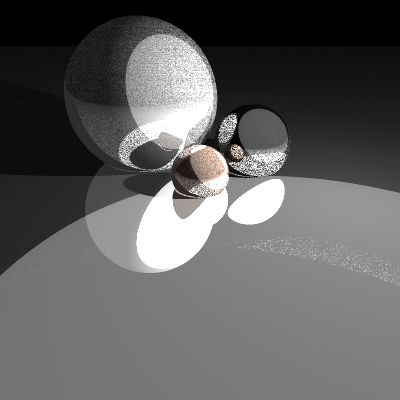
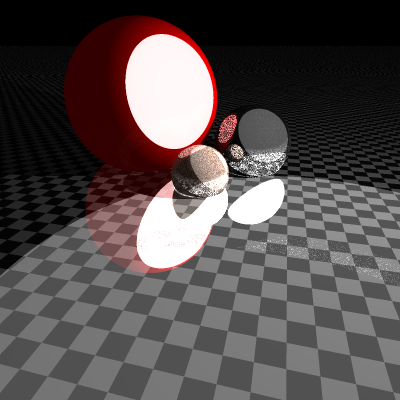
medium refactor

diff --git a/src/scenefile.rs b/src/scenefile.rs
@@ -28,6 +28,7 @@ pub struct SceneFile {
     pub camera: Value,
 
     pub materials: Map<String, Value>,
+    pub media: Map<String, Value>,
     pub lights: Vec<Value>,
     pub objects: Vec<Value>,
 
@@ -35,6 +36,18 @@ pub struct SceneFile {
 }
 
 impl SceneFile {
+    pub fn parse_number(v: &Value, default: f64) -> f64 {
+        match v.as_f64(){
+            Some(x) => return x,
+            None => return default
+        }
+    }
+    
+    pub fn parse_string(v: &Value) -> String {
+        return v.as_str().unwrap().to_string(); // This is pretty nasty, shame serde
+    }
+
+
     pub fn parse_vec3(v: &Value) -> Vec3<f64> {
         return Vec3::new(v[0].as_f64().unwrap(),
                          v[1].as_f64().unwrap(),
@@ -58,10 +71,10 @@ impl SceneFile {
         );
     }
 
-    pub fn parse_objects(objs: Vec<Value>, materials: HashMap<String, material::Material>) ->Vec<Rc<SceneObject>> {
+    pub fn parse_objects(objs: Vec<Value>, materials: HashMap<String, material::Material>, media:&HashMap<String, Box<material::Medium>>) ->Vec<Rc<SceneObject>> {
          let mut objects: Vec<Rc<SceneObject>> = Vec::new();
          for obj in objs {
-            match SceneFile::parse_object(obj, &materials) {
+            match SceneFile::parse_object(obj, &materials, &media) {
                 Some(x) => objects.push(x),
                 None => {},
             }
@@ -69,33 +82,47 @@ impl SceneFile {
          return objects
     }
 
-    pub fn parse_object(o: Value, materials: &HashMap<String, material::Material>) -> Option<Rc<SceneObject>> {
+    pub fn parse_object_medium(o: &Value, materials: &HashMap<String, material::Material>, media:&HashMap<String, Box<material::Medium>> ) -> Box<material::Medium> {
+        match &o.get("medium") {
+            Some(mid) => {
+                return media.get(&SceneFile::parse_string(mid)).unwrap().box_clone();
+            },
+            None => {
+                // Default is Solid
+                let m = materials.get(&SceneFile::parse_string(&o["material"])).unwrap();
+                return Box::new(material::Solid { m: m.clone() })
+            }
+        }
+
+    }
+
+    pub fn parse_object(o: Value, materials: &HashMap<String, material::Material>, media:&HashMap<String, Box<material::Medium>>) -> Option<Rc<SceneObject>> {
         let t = o["type"].as_str().unwrap();
-        let m = materials.get(&o["material"].as_str().unwrap().to_string()).unwrap(); // This is pretty nasty, shame serde
+        let m = SceneFile::parse_object_medium(&o, materials, media);
         
         if t == "sphere" {
-            return Some(Rc::new(SceneFile::parse_sphere(&o, m.clone())));
+            return Some(Rc::new(SceneFile::parse_sphere(&o, m)));
         }
         
         if t == "checkeredplane" {
-            return Some(Rc::new(SceneFile::parse_checkeredplane(&o, m.clone())));
+            return Some(Rc::new(SceneFile::parse_checkeredplane(&o, m)));
         }
         return None
     }
 
-    pub fn parse_sphere(o: &Value, m: material::Material) -> SceneObject {
+    pub fn parse_sphere(o: &Value, m: Box<material::Medium>) -> SceneObject {
         return SceneObject {
             geometry: Box::new(Sphere::new(
                 SceneFile::parse_vec3(&o["location"]),
                 o["radius"].as_f64().unwrap())),
-            medium: Box::new(material::Solid { m: m })
+            medium: m
         };
     }
 
-    pub fn parse_checkeredplane(o: &Value, m: material::Material) -> SceneObject {
+    pub fn parse_checkeredplane(o: &Value, m: Box<material::Medium>) -> SceneObject {
         SceneObject {
             geometry: Box::new(Plane { y: o["y"].as_f64().unwrap() }),
-            medium: Box::new(material::Solid { m: m })
+            medium: m
         }
     }
 
@@ -118,6 +145,39 @@ impl SceneFile {
         return materials;
     }
 
+    pub fn parse_medium(o: &Value, materials: &HashMap<String, material::Material>) -> Option<Box<material::Medium>> {
+        let t = o["type"].as_str().unwrap();
+        if t == "solid" {
+            let m = materials.get(&SceneFile::parse_string(&o["material"])).unwrap(); 
+            return Some(Box::new(material::Solid { m: m.clone() }));
+        }
+
+        if t == "checkered-y-plane" {
+            let m1 = materials.get(&SceneFile::parse_string(&o["m1"])).unwrap(); 
+            let m2 = materials.get(&SceneFile::parse_string(&o["m2"])).unwrap(); 
+            let xsize = SceneFile::parse_number(&o["xsize"], 1.);
+            let zsize = SceneFile::parse_number(&o["zsize"], 1.);
+            return Some(Box::new(material::CheckeredYPlane {
+                m1: m1.clone(), m2: m2.clone(), xsize: xsize, zsize: zsize
+            }));
+
+        }
+
+        return None
+    }
+
+    pub fn parse_media(o: &Map<String, Value>, materials: &HashMap<String, material::Material>) -> HashMap<String, Box<material::Medium>> {
+        let mut media = HashMap::new();
+        for m in o.iter() {
+            match SceneFile::parse_medium(m.1, materials){
+                Some(mp) => { media.insert(m.0.to_string(), mp);},
+                None => {}
+            }
+        }
+        print!("{:?}", media.keys());
+        return media;
+    }
+
     pub fn parse_light(o: &Value) -> Light {
         return Light {
                 position: SceneFile::parse_vec3(&o["location"]),
@@ -137,7 +197,8 @@ impl SceneFile {
     pub fn from_scenefile(s: SceneFile) -> Scene {
         let mut o = SceneGraph::new();
         let materials = SceneFile::parse_materials(&s.materials);
-        let objects = SceneFile::parse_objects(s.objects, materials);
+        let media = SceneFile::parse_media(&s.media, &materials);
+        let objects = SceneFile::parse_objects(s.objects, materials, &media);
         o.push(objects);
 
         return Scene {

diff --git a/src/material.rs b/src/material.rs
@@ -14,9 +14,11 @@ pub struct Material {
 }
 
 pub trait Medium {
+    fn box_clone(&self) -> Box<dyn Medium>;
     fn material_at(&self, pt: Vec3<f64>) -> Material; 
 }
 
+#[derive(Clone)]
 pub struct Solid {
     pub m: Material
 }
@@ -24,13 +26,18 @@ impl Medium for Solid {
     fn material_at(&self, _pt: Vec3<f64>) -> Material {
         self.m.clone()
     }
+
+    fn box_clone(&self) -> Box<Medium>{
+        return Box::new(self.clone())
+    }
 }
 
+#[derive(Clone)]
 pub struct CheckeredYPlane {
-    m1: Material,
-    m2: Material,
-    xsize: f64,
-    zsize: f64,
+    pub m1: Material,
+    pub m2: Material,
+    pub xsize: f64,
+    pub zsize: f64,
 }
 impl CheckeredYPlane {
     pub fn new(m1: Material, m2: Material, xsize: f64, zsize: f64) -> CheckeredYPlane {
@@ -44,6 +51,10 @@ impl Medium for CheckeredYPlane {
         let zag = if (pt[2].abs() / self.zsize) as i32 % 2 == 0 { pt[2] > 0. } else { pt[2] <= 0. };
         // zig XOR zag
         return if !zig != !zag { self.m1.clone() } else { self.m2.clone() };
+    }
+
+    fn box_clone(&self) -> Box<Medium>{
+        return Box::new(self.clone())
     }
 }
 
